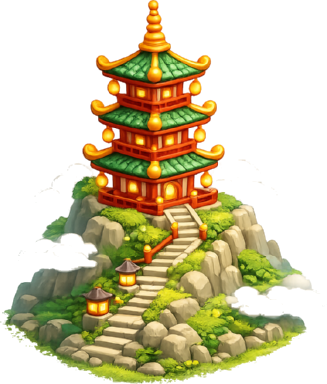
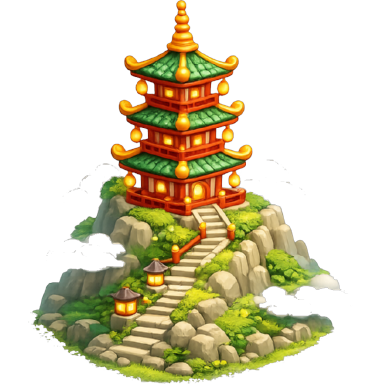
fix(mobile): restore the art paths a slot rename dropped, and give My Town its buildings
The town slots were renamed to say what they do rather than what they are in one
culture, and the PNGs were renamed to match — but the seven zh paths in the art
registry kept the old filenames. Metro fails the whole bundle on one
unresolvable require, so typecheck, lint and all 190 tests were green while the
app could not be built at all.

My Town also still rendered ⛩ 🍵 🍜 🌸 🏮 and the rest, which showed every
learner a torii gate and a pagoda whatever course they were taking, and left the
forty generated buildings unused. Each slot is now a `TownSlot` resolved through
`townArtFor(language)`, which is keyed as a Record over both the language and the
slot: a language missing a building is a type error rather than a blank row.

A locked building now dims the picture it is withholding instead of swapping in a
glyph, with the lock carried by a small badge. What is coming is the reason to
study, and it used to be invisible.

All forty buildings are fitted to the same 384x384 transparent square. The zh
originals were trimmed to their own box, so in a `contain` cell they rendered
12% narrower than the generated sets and the town stopped reading as one place.

The new artAssets test walks src for @assets requires and resolves each one
against disk, which is the check that was missing: the broken state above is
invisible to the compiler, to lint and to the suite.

Also fixes "Tmercbukit" in the Indonesian string, introduced with the rename.

diff --git a/apps/mobile/src/components/study/art.ts b/apps/mobile/src/components/study/art.ts
@@ -13,11 +13,10 @@
  * below — that is what the measurement script is for.
  */
 import type { ImageSourcePropType } from "react-native"
+import type { LanguageCode } from "@/lib/languages"
 
 // ─── Dashboard hero ─────────────────────────────────────────────────────────
 export const art = {
-  /** The bowing Shifu, clipped at the hem by the hero's overflow. */
-  shifuBow: require("@assets/study-art/dashboard/shifu-bow.png"),
   /** Mountain range for the word-of-day card. */
   wordMountains: require("@assets/study-art/dashboard/word-mountains.png"),
   /** Open scroll for the challenges card. */
@@ -81,18 +80,85 @@ export const unitArt = {
   popCultureMusic: require("@assets/study-art/units/pop-culture-music.png"),
 } as const
 
-// ─── My Town buildings, ordered by xp cost ──────────────────────────────────
-export const buildingArt: Record<string, ImageSourcePropType> = {
-  assemblyHall: require("@assets/study-art/buildings/zh/temple.png"),
-  cafeGarden: require("@assets/study-art/buildings/zh/tea-house.png"),
-  foodShop: require("@assets/study-art/buildings/zh/noodle-shop.png"),
-  gardenPavilion: require("@assets/study-art/buildings/zh/garden-pavilion.png"),
-  oldStreet: require("@assets/study-art/buildings/zh/lantern-street.png"),
-  riversideWalk: require("@assets/study-art/buildings/zh/riverside-walk.png"),
-  monument: require("@assets/study-art/buildings/zh/buddhist-statue.png"),
-  hilltopLandmark: require("@assets/study-art/buildings/zh/mountain-pagoda.png"),
-  marketSquare: require("@assets/study-art/buildings/zh/market-square.png"),
-  civicHall: require("@assets/study-art/buildings/zh/grand-palace.png"),
+// ─── My Town buildings ──────────────────────────────────────────────────────
+
+/**
+ * One slot in the town. The name says what the building *does*, not what it is
+ * where — a temple is an assembly hall, a grand palace a civic hall and a
+ * mountain pagoda a hilltop landmark, because every language the app teaches
+ * has a counterpart to all three.
+ */
+export type TownSlot =
+  | "assemblyHall"
+  | "cafeGarden"
+  | "foodShop"
+  | "gardenPavilion"
+  | "oldStreet"
+  | "riversideWalk"
+  | "monument"
+  | "hilltopLandmark"
+  | "marketSquare"
+  | "civicHall"
+
+const townByLanguage: Record<
+  LanguageCode,
+  Record<TownSlot, ImageSourcePropType>
+> = {
+  zh: {
+    assemblyHall: require("@assets/study-art/buildings/zh/assembly-hall.png"),
+    cafeGarden: require("@assets/study-art/buildings/zh/cafe-garden.png"),
+    foodShop: require("@assets/study-art/buildings/zh/food-shop.png"),
+    gardenPavilion: require("@assets/study-art/buildings/zh/garden-pavilion.png"),
+    oldStreet: require("@assets/study-art/buildings/zh/old-street.png"),
+    riversideWalk: require("@assets/study-art/buildings/zh/riverside-walk.png"),
+    monument: require("@assets/study-art/buildings/zh/monument.png"),
+    hilltopLandmark: require("@assets/study-art/buildings/zh/hilltop-landmark.png"),
+    marketSquare: require("@assets/study-art/buildings/zh/market-square.png"),
+    civicHall: require("@assets/study-art/buildings/zh/civic-hall.png"),
+  },
+  ja: {
+    assemblyHall: require("@assets/study-art/buildings/ja/assembly-hall.png"),
+    cafeGarden: require("@assets/study-art/buildings/ja/cafe-garden.png"),
+    foodShop: require("@assets/study-art/buildings/ja/food-shop.png"),
+    gardenPavilion: require("@assets/study-art/buildings/ja/garden-pavilion.png"),
+    oldStreet: require("@assets/study-art/buildings/ja/old-street.png"),
+    riversideWalk: require("@assets/study-art/buildings/ja/riverside-walk.png"),
+    monument: require("@assets/study-art/buildings/ja/monument.png"),
+    hilltopLandmark: require("@assets/study-art/buildings/ja/hilltop-landmark.png"),
+    marketSquare: require("@assets/study-art/buildings/ja/market-square.png"),
+    civicHall: require("@assets/study-art/buildings/ja/civic-hall.png"),
+  },
+  de: {
+    assemblyHall: require("@assets/study-art/buildings/de/assembly-hall.png"),
+    cafeGarden: require("@assets/study-art/buildings/de/cafe-garden.png"),
+    foodShop: require("@assets/study-art/buildings/de/food-shop.png"),
+    gardenPavilion: require("@assets/study-art/buildings/de/garden-pavilion.png"),
+    oldStreet: require("@assets/study-art/buildings/de/old-street.png"),
+    riversideWalk: require("@assets/study-art/buildings/de/riverside-walk.png"),
+    monument: require("@assets/study-art/buildings/de/monument.png"),
+    hilltopLandmark: require("@assets/study-art/buildings/de/hilltop-landmark.png"),
+    marketSquare: require("@assets/study-art/buildings/de/market-square.png"),
+    civicHall: require("@assets/study-art/buildings/de/civic-hall.png"),
+  },
+  en: {
+    assemblyHall: require("@assets/study-art/buildings/en/assembly-hall.png"),
+    cafeGarden: require("@assets/study-art/buildings/en/cafe-garden.png"),
+    foodShop: require("@assets/study-art/buildings/en/food-shop.png"),
+    gardenPavilion: require("@assets/study-art/buildings/en/garden-pavilion.png"),
+    oldStreet: require("@assets/study-art/buildings/en/old-street.png"),
+    riversideWalk: require("@assets/study-art/buildings/en/riverside-walk.png"),
+    monument: require("@assets/study-art/buildings/en/monument.png"),
+    hilltopLandmark: require("@assets/study-art/buildings/en/hilltop-landmark.png"),
+    marketSquare: require("@assets/study-art/buildings/en/market-square.png"),
+    civicHall: require("@assets/study-art/buildings/en/civic-hall.png"),
+  },
+}
+
+/** The buildings as the learner's own language draws them. */
+export function townArtFor(
+  language: LanguageCode
+): Record<TownSlot, ImageSourcePropType> {
+  return townByLanguage[language]
 }
 
 export type ArtEntry = { source: ImageSourcePropType; ratio: number }
@@ -108,7 +174,6 @@ export type ArtEntry = { source: ImageSourcePropType; ratio: number }
  * `scripts/measure-art-ratios.mjs` after any re-trim.
  */
 export const artRatio: Record<string, number> = {
-  shifuBow: 2.347,
   wordMountains: 0.63,
   scroll: 1.264,
   fire: 0.913,
@@ -129,4 +194,6 @@ export const artRatio: Record<string, number> = {
   flashcards: 1,
   listening: 1,
   mistakes: 1,
+  // Every town building is fitted to a 384x384 transparent square, in all four
+  // languages, so the row reads as one place whichever set is showing.
 }

diff --git a/apps/mobile/src/screens/MyTown.tsx b/apps/mobile/src/screens/MyTown.tsx
@@ -1,6 +1,7 @@
 import { BackLink } from "@/components/ui/BackLink"
 import { useEffect, useMemo, useState } from "react"
-import { Pressable, ScrollView, Text, View } from "react-native"
+import { Image, Pressable, ScrollView, Text, View } from "react-native"
+import { Ionicons } from "@expo/vector-icons"
 import { SafeAreaView } from "react-native-safe-area-context"
 import { useRouter } from "expo-router"
 import { useQuery } from "@tanstack/react-query"
@@ -8,6 +9,8 @@ import { PaperCard, LiftedFace } from "@/components/study/PaperCard"
 import { ProgressBar } from "@/components/ui/ProgressBar"
 import { FlexGap } from "@/components/study/press"
 import { Shifu } from "@/components/study/Shifu"
+import { townArtFor, type TownSlot } from "@/components/study/art"
+import { useTargetLanguage } from "@/hooks/useTargetLanguage"
 import { useTheme } from "@/theme/ThemeProvider"
 import { useContentLayout } from "@/theme/layout"
 import { paperType, families } from "@/theme/paperType"
@@ -33,53 +36,22 @@ import { careful, tap, thud } from "@/utils/feedback"
  * nothing.
  */
 interface Building {
-  id: string
+  id: TownSlot
   nameKey: I18nKey
   xpCost: number
-  glyph: string
 }
 
 const BUILDINGS: Building[] = [
-  { id: "assemblyHall", nameKey: "town.assemblyHall", xpCost: 0, glyph: "⛩" },
-  { id: "cafeGarden", nameKey: "town.cafeGarden", xpCost: 300, glyph: "🍵" },
-  { id: "foodShop", nameKey: "town.foodShop", xpCost: 700, glyph: "🍜" },
-  {
-    id: "gardenPavilion",
-    nameKey: "town.gardenPavilion",
-    xpCost: 1200,
-    glyph: "🌸",
-  },
-  {
-    id: "oldStreet",
-    nameKey: "town.oldStreet",
-    xpCost: 1800,
-    glyph: "🏮",
-  },
-  {
-    id: "riversideWalk",
-    nameKey: "town.riversideWalk",
-    xpCost: 2500,
-    glyph: "🌉",
-  },
-  {
-    id: "monument",
-    nameKey: "town.monument",
-    xpCost: 3300,
-    glyph: "🗿",
-  },
-  {
-    id: "hilltopLandmark",
-    nameKey: "town.hilltopLandmark",
-    xpCost: 4200,
-    glyph: "🗼",
-  },
-  {
-    id: "marketSquare",
-    nameKey: "town.marketSquare",
-    xpCost: 5200,
-    glyph: "🏪",
-  },
-  { id: "civicHall", nameKey: "town.civicHall", xpCost: 6500, glyph: "🏯" },
+  { id: "assemblyHall", nameKey: "town.assemblyHall", xpCost: 0 },
+  { id: "cafeGarden", nameKey: "town.cafeGarden", xpCost: 300 },
+  { id: "foodShop", nameKey: "town.foodShop", xpCost: 700 },
+  { id: "gardenPavilion", nameKey: "town.gardenPavilion", xpCost: 1200 },
+  { id: "oldStreet", nameKey: "town.oldStreet", xpCost: 1800 },
+  { id: "riversideWalk", nameKey: "town.riversideWalk", xpCost: 2500 },
+  { id: "monument", nameKey: "town.monument", xpCost: 3300 },
+  { id: "hilltopLandmark", nameKey: "town.hilltopLandmark", xpCost: 4200 },
+  { id: "marketSquare", nameKey: "town.marketSquare", xpCost: 5200 },
+  { id: "civicHall", nameKey: "town.civicHall", xpCost: 6500 },
 ]
 
 const TOWN_KEY = "navia.town.v1"
@@ -90,6 +62,9 @@ export function MyTown() {
   const router = useRouter()
   const { column } = useContentLayout()
   const columnWidth = column
+
+  const language = useTargetLanguage()
+  const buildings = townArtFor(language)
 
   const progressQ = useQuery({ queryKey: ["progress"], queryFn: progress.get })
   const xp = progressQ.data?.xp ?? 0
@@ -224,12 +199,44 @@ export function MyTown() {
                           : paper.cardAlt,
                         alignItems: "center",
                         justifyContent: "center",
-                        opacity: isUnlocked ? 1 : isNext ? 0.75 : 0.35,
                       }}
                     >
-                      <Text style={{ fontSize: 28 }}>
-                        {isUnlocked ? b.glyph : isNext ? "🔓" : "·"}
-                      </Text>
+                      {/* The building is shown in every state: what is coming is
+                        the reason to study, so a locked row dims what it is
+                        withholding rather than swapping in a glyph. */}
+                      <Image
+                        source={buildings[b.id]}
+                        style={{
+                          width: 56,
+                          height: 56,
+                          opacity: isUnlocked ? 1 : isNext ? 0.85 : 0.3,
+                        }}
+                        resizeMode="contain"
+                        accessibilityIgnoresInvertColors
+                      />
+                      {!isUnlocked ? (
+                        <View
+                          style={{
+                            position: "absolute",
+                            right: 2,
+                            bottom: 2,
+                            width: 20,
+                            height: 20,
+                            borderRadius: 10,
+                            alignItems: "center",
+                            justifyContent: "center",
+                            backgroundColor: paper.card,
+                            borderWidth: 1,
+                            borderColor: isNext ? paper.green : paper.line,
+                          }}
+                        >
+                          <Ionicons
+                            name={isNext ? "lock-open" : "lock-closed"}
+                            size={11}
+                            color={isNext ? paper.green : paper.inkMuted}
+                          />
+                        </View>
+                      ) : null}
                     </View>
                     <View style={{ flex: 1, gap: 3 }}>
                       <Text

diff --git a/apps/mobile/__tests__/artAssets.test.ts b/apps/mobile/__tests__/artAssets.test.ts
@@ -1,0 +1,97 @@
+import { describe, it, expect } from "vitest"
+import { existsSync, readdirSync, readFileSync, statSync } from "node:fs"
+import { dirname, join, resolve } from "node:path"
+
+/**
+ * Every asset the source names has to exist on disk.
+ *
+ * Metro fails the **whole bundle** on one unresolvable `require`, so a rename
+ * that moves a PNG without moving the line that names it is a build break, not a
+ * missing picture. That is exactly what happened: the town slots were renamed to
+ * say what they are rather than what they are in one culture, the PNGs were
+ * renamed to match, and the seven zh paths in the art registry kept the old
+ * filenames — typecheck, lint and the whole suite stayed green while the app
+ * could not be built at all.
+ *
+ * So the check is filesystem-level rather than import-level: no alias, no React
+ * Native, nothing that would stop a rename from being checked.
+ */
+
+function packageRoot(): string {
+  let dir = process.cwd()
+  for (let i = 0; i < 6; i++) {
+    if (existsSync(join(dir, "assets", "study-art"))) return dir
+    const up = dirname(dir)
+    if (up === dir) break
+    dir = up
+  }
+  throw new Error(
+    "apps/mobile/assets/study-art not found from " + process.cwd()
+  )
+}
+
+function sources(root: string): string[] {
+  const out: string[] = []
+  const walk = (dir: string) => {
+    for (const entry of readdirSync(dir)) {
+      const p = join(dir, entry)
+      if (statSync(p).isDirectory()) walk(p)
+      else if (/\.tsx?$/.test(entry)) out.push(p)
+    }
+  }
+  walk(join(root, "src"))
+  return out
+}
+
+const root = packageRoot()
+
+describe("study art", () => {
+  it("names assets that exist", () => {
+    const missing: string[] = []
+    let checked = 0
+    for (const file of sources(root)) {
+      const text = readFileSync(file, "utf8")
+      for (const m of text.matchAll(/["'`]@assets\/([^"'`]+)["'`]/g)) {
+        checked++
+        const target = resolve(root, "assets", m[1])
+        if (!existsSync(target)) missing.push(`${file}: @assets/${m[1]}`)
+      }
+    }
+    // Guards against the check silently matching nothing after an alias rename.
+    expect(checked).toBeGreaterThan(20)
+    expect(missing).toEqual([])
+  })
+
+  it("gives every learning language the same town slots", () => {
+    const dir = join(root, "assets", "study-art", "buildings")
+    const sets = Object.fromEntries(
+      readdirSync(dir).map((lang) => [
+        lang,
+        readdirSync(join(dir, lang))
+          .filter((f) => f.endsWith(".png"))
+          .sort(),
+      ])
+    )
+    expect(Object.keys(sets).sort()).toEqual(["de", "en", "ja", "zh"])
+    // One language missing a slot shows a blank row in an otherwise identical
+    // town, which no type error can catch: Record only knows the keys exist.
+    for (const [lang, files] of Object.entries(sets)) {
+      expect(files, `${lang} buildings`).toEqual(sets.zh)
+    }
+  })
+
+  it("keeps every town building on the same square canvas", () => {
+    const dir = join(root, "assets", "study-art", "buildings")
+    const seen = new Set<string>()
+    for (const lang of readdirSync(dir)) {
+      for (const file of readdirSync(join(dir, lang))) {
+        if (!file.endsWith(".png")) continue
+        const b = readFileSync(join(dir, lang, file))
+        seen.add(`${b.readUInt32BE(16)}x${b.readUInt32BE(20)}`)
+      }
+    }
+    // The row is laid out in equal cells; a source that is not square renders
+    // `contain` at a different size and the town stops reading as one place.
+    expect([...seen]).toEqual(["384x384"])
+  })
+})

diff --git a/apps/mobile/src/lib/languages.ts b/apps/mobile/src/lib/languages.ts
@@ -105,7 +105,9 @@ export function langBundle(lang: LanguageCode, name: string): string {
 }
 
 /** True for languages whose writing system is character/kana-based (zh, ja). */
-export function isCharScript(lang: LanguageCode): boolean {
+export type CharScriptLanguage = "zh" | "ja"
+
+export function isCharScript(lang: LanguageCode): lang is CharScriptLanguage {
   const script = languageInfo(lang).script
   return (
     script === "Simplified" || script === "Traditional" || script === "Kana"

diff --git a/apps/mobile/src/i18n/id.ts b/apps/mobile/src/i18n/id.ts
@@ -630,7 +630,7 @@ const id: Record<I18nKey, string> = {
   "town.oldStreet": "Jalan tua",
   "town.riversideWalk": "Jalan tepi sungai",
   "town.monument": "Monumen",
-  "town.hilltopLandmark": "Tmercbukit",
+  "town.hilltopLandmark": "Taman bukit",
   "town.marketSquare": "Alun-alun pasar",
   "town.civicHall": "Balai kota",
   "town.note": "Bangunan di sini berdiri di atas XP dari belajarmu.",
